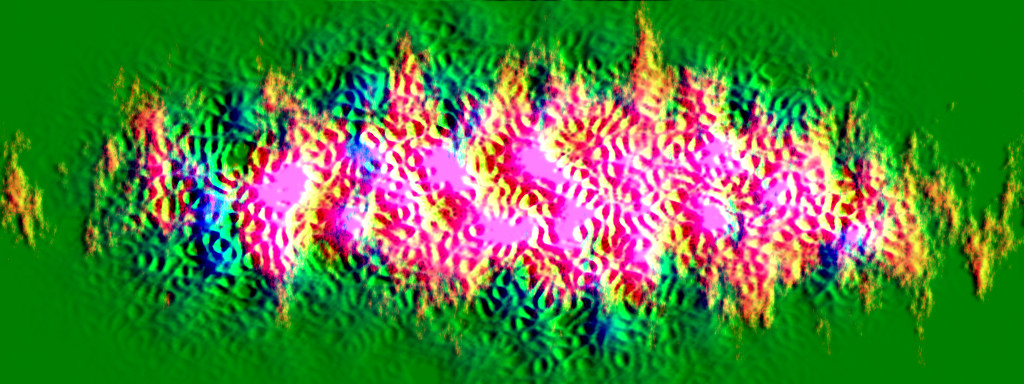
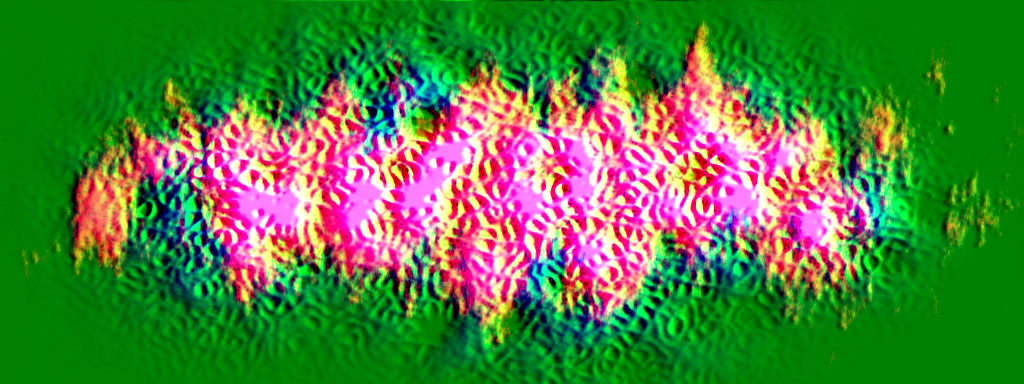
The cloud in fields at three heights, lava as vents, shade of the storm, land reads as a continent

diff --git a/src/places/reveal/land/index.ts b/src/places/reveal/land/index.ts
@@ -3,7 +3,7 @@
 // The light is the rig's: one sun, the blue of the air, the shade of the cloud (shared/weather.ts) and the edge of the planet.
 import * as THREE from 'three';
 import { FPS } from '../../../config';
-import { AT, KM, RING_FADE, RISE_FIRST, X, Z, handoff, rise } from '../shared/anchors';
+import { AT, KM, RING_FADE, RISE_FIRST, SUN, X, Z, handoff, rise } from '../shared/anchors';
 import type { Context, Piece } from '../shared/context';
 import { NOISE_GLSL, RIG_GLSL, RIG_VERTEX } from '../shared/glsl';
 import { WEATHER_GLSL } from '../shared/weather';
@@ -33,9 +33,14 @@ uniform vec2 uLava;
 uniform vec2 uSalt;
 uniform vec2 uGlint;
 uniform float uPlanetKm;
+uniform vec4 uStorm;
+uniform vec3 uCyclone;
+uniform vec2 uShadeOff;
 varying vec3 vWorld;
 
 const vec3 DEEP = vec3(0.006, 0.017, 0.04);
+// The lesser vents: x and z from the Heart, km, and their size beside it.
+const vec3 VENTS[6] = vec3[6](vec3(-42.0, -98.0, 0.5), vec3(76.0, -33.0, 0.55), vec3(170.0, -66.0, 0.45), vec3(124.0, 24.0, 0.4), vec3(-52.0, 50.0, 0.45), vec3(43.0, 79.0, 0.4));
 
 float inside(vec2 uv) {
   vec2 m = min(uv, 1.0 - uv);
@@ -72,19 +77,40 @@ void main() {
   vec3 n = normalize(vec3(slope.x, sqrt(max(1.0 - dot(slope, slope), 0.04)), slope.y));
 
   float shade = cloudShade(xz);
+  // The storm on the spine and the cyclone stand high: their shade falls on the sea beside them, away from the sun.
+  vec2 underStorm = (xz - uStorm.xy - uShadeOff * 1.0) / uStorm.zw;
+  shade *= 1.0 - 0.72 * (1.0 - smoothstep(0.55, 1.05, length(underStorm)));
+  vec2 underCyclone = (xz - uCyclone.xy - uShadeOff * 0.8) / uCyclone.z;
+  shade *= 1.0 - 0.45 * (1.0 - smoothstep(0.1, 0.75, length(underCyclone)));
   float mu = limbCos(xz);
 
   // ---- the land ----
+  // Seen from far, the lowlands are dark with growth and the ranges pale with bare rock.
+  ground *= mix(1.0, mix(0.75, 1.15, smoothstep(0.02, 0.4, height)), land * smoothstep(40.0, 400.0, uViewKm));
   vec3 earth = rigShade(vWorld, n, view, ground, 0.92, shade);
+  // The light the sunlit slopes throw back into the shaded ones: without it every shadow is the blue of the sky.
+  earth += ground * uSunColour * 0.03 * (0.4 + 0.6 * shade);
 
-  // The lava of the Heart: the chest is a black crust, and the heat shows along its cracks. It swells with the beat.
-  vec2 fromLava = (xz - uLava) / 86.0;
-  float field = exp(-dot(fromLava * vec2(0.8, 1.25), fromLava * vec2(0.8, 1.25)));
-  float vein = cracks(xz / 9.0) * smoothstep(0.25, 0.7, field + 0.25 * (vnoise(xz / 30.0) - 0.5));
-  float core = exp(-dot(fromLava, fromLava) * 36.0);
-  float heat = (vein * (0.5 + 0.5 * field) + core) * (0.75 + 0.9 * uBeat) * land * (1.0 - smoothstep(0.12, 0.3, height));
-  vec3 glow = blackbody(1050.0 + 520.0 * clamp(heat, 0.0, 1.3)) * 0.085 * smoothstep(0.05, 0.5, heat);
-  glow += vec3(1.0, 0.24, 0.05) * 0.05 * field * uBeat * land;
+  // The lava of the Heart: vents in the black crust of the chest. The great one is the Heart, and it swells with the beat; the heat shows
+  // along the cracks round it. Each is a few kilometres of molten rock: from orbit a point of orange light with a glow in the haze over it.
+  vec2 fromLava = xz - uLava;
+  float swell = 0.8 + 0.9 * uBeat;
+  float d0 = dot(fromLava, fromLava);
+  float heat = exp(-d0 / 110.0) * 1.3 * swell;
+  float halo = exp(-d0 / 1600.0) * (0.6 + 1.4 * uBeat);
+  for (int i = 0; i < 6; i++) {
+    vec3 vent = VENTS[i];
+    vec2 q = fromLava - vent.xy;
+    float dd = dot(q, q);
+    // The lesser vents answer the beat a little late, each in its turn.
+    float answer = 0.75 + 0.5 * uBeat * (0.5 + 0.5 * sin(float(i) * 2.4));
+    heat += exp(-dd / (60.0 * vent.z)) * 1.6 * vent.z * answer;
+    halo += exp(-dd / (500.0 * vent.z)) * 0.3 * vent.z * answer;
+  }
+  float vein = cracks(xz / 7.0) * exp(-d0 / 2600.0) * (0.25 + 0.6 * uBeat);
+  heat = (heat + vein) * land * (1.0 - smoothstep(0.14, 0.3, height));
+  vec3 glow = blackbody(1080.0 + 380.0 * clamp(heat, 0.0, 1.4)) * 0.11 * smoothstep(0.03, 0.6, heat);
+  glow += vec3(1.0, 0.3, 0.06) * 0.2 * halo * land;
 
   // ---- the water ----
   // What comes back from under the surface, lit by the sun and the sky.
@@ -99,7 +125,7 @@ void main() {
   float t2 = lean * lean / (rough * rough);
   float lobe = exp(-t2) / (3.14159 * rough * rough);
   float fresnel = 0.02 + 0.98 * pow(1.0 - mu * 0.9, 5.0);
-  water += uSkyColour * 0.32 * fresnel;
+  water += uSkyColour * 0.22 * fresnel;
   water += uSunColour * lobe * 0.0032 * shade * (0.6 + 0.4 * depth);
   // Surf: a broken white line where the swell meets the coast.
   float surf = smoothstep(0.405, 0.47, shape.b) * (1.0 - land) * smoothstep(0.35, 0.75, ruffle + 0.4 * vnoise(xz * 1.7));
@@ -109,8 +135,11 @@ void main() {
 
   // ---- the air between the surface and the eye: more of it toward the edge of the planet ----
   float path = 1.0 / max(mu, 0.12);
-  float air = 1.0 - exp(-0.022 * path * (1.0 - 0.45 * height * land));
+  float air = 1.0 - exp(-0.015 * path * (1.0 - 0.45 * height * land));
   colour = mix(colour, uAirColour * (0.55 + 0.45 * shade), air);
+  // Haze lies in the valleys and over the plains, and thins up the ranges.
+  float low = land * (1.0 - smoothstep(0.0, 0.3, height)) * (0.6 + 0.8 * vnoise(xz / 70.0));
+  colour = mix(colour, (uAirColour * 1.2 + vec3(0.03)) * (0.55 + 0.45 * shade), 0.012 * low * path);
   colour += glow * (1.0 - 0.5 * air);
 
   // ---- the handoff: on its first frame the rise draws what the Eye last drew, deep water and rings ----
@@ -170,6 +199,10 @@ export function create(ctx: Context): Piece {
     // Where on the sea the sun's own image lies, and the radius of the planet, km.
     uGlint: { value: new THREE.Vector2(X(6350), Z(1150)) },
     uPlanetKm: { value: 10183 * KM },
+    // The storm: its middle and its half sizes, km. The cyclone: its middle and its radius. And how far a shade falls for a cloud 7 km up.
+    uStorm: { value: new THREE.Vector4(X(AT.storm.x), Z(AT.storm.y), 215 * KM, 62 * KM) },
+    uCyclone: { value: new THREE.Vector3(X(AT.cyclone.x), Z(AT.cyclone.y), 880 * KM) },
+    uShadeOff: { value: new THREE.Vector2((-SUN[0] / SUN[1]) * 7, (-SUN[2] / SUN[1]) * 7) },
   };
   const material = new THREE.ShaderMaterial({ uniforms, vertexShader: RIG_VERTEX, fragmentShader: FRAGMENT });
   const sheet = new THREE.Mesh(new THREE.PlaneGeometry(90000, 90000).rotateX(-Math.PI / 2), material);

diff --git a/src/places/reveal/shared/weather.ts b/src/places/reveal/shared/weather.ts
@@ -29,11 +29,15 @@ vec3 lowCloud(vec2 xz) {
   vec3 other = texture2D(uCloudTile, turned / 109.0 + vec2(0.71, 0.18)).rgb;
   float close = 1.0 - smoothstep(60.0, 420.0, uViewKm);
   vec3 near = texture2D(uCloudTile, (xz - drift * 1.2) / 41.0 + vec2(0.13, 0.77)).rgb;
-  float field = 0.3 * wide.r + 0.4 * mid.r + 0.3 * other.r + close * 0.14 * (near.r - 0.5);
-  float share = 0.72 * cover.r + 0.5 * cover.b;
-  float edge = mix(0.07, 0.045, close);
-  float least = 0.5 + (0.5 - share) * 0.55 + 0.3 * (1.0 - smoothstep(0.0, 0.08, share));
-  float thick = smoothstep(least, least + edge, field);
+  float share = 0.74 * smoothstep(0.2, 0.62, cover.r) + 0.4 * cover.b;
+  // Where the fields of cloud are, and in them the cells: the fuller the field, the more of its cells have grown.
+  float fieldOf = smoothstep(0.9 - 1.25 * share, 1.45 - 1.25 * share, 0.8 * wide.r + 0.2 * mid.r) * smoothstep(0.0, 0.06, share);
+  float cells = 0.42 * mid.r + 0.38 * other.r + 0.2 * wide.r + close * 0.16 * (near.r - 0.5);
+  float least = mix(0.82, 0.5, fieldOf);
+  float thick = smoothstep(least, least + mix(0.1, 0.06, close), cells);
+  // Past the size a pixel can show, the cells are seen as their share of the field.
+  float coarse = smoothstep(2.0, 8.0, fwidth(xz.x) + fwidth(xz.y));
+  thick = mix(thick, 0.5 * fieldOf * fieldOf, coarse);
   float facing = 0.5 + (wide.g - 0.5) * 0.3 + (mid.g - 0.5) * 0.8 + (other.g - 0.5) * 0.6 + close * (near.g - 0.5) * 0.6;
   return vec3(thick, facing, mid.r);
 }
@@ -48,10 +52,22 @@ float highCloud(vec2 xz) {
   return smoothstep(1.0 - cover.g, 1.0 - cover.g + 0.35, field);
 }
 
+// The middle cloud: wide thin sheets, rippled, between the two.
+float midCloud(vec2 xz) {
+  vec2 drift = uTime * vec2(1.9, -0.6);
+  vec3 cover = coverAt(xz);
+  float sheet = texture2D(uCloudTile, (xz - drift) / 3300.0 + vec2(0.55, 0.12)).r;
+  float ripple = texture2D(uCloudTile, (xz - drift) / 290.0 + vec2(0.4, 0.9)).r;
+  float fine = texture2D(uCloudTile, (xz - drift * 1.1) / 67.0).r;
+  float streaks = texture2D(uCloudTile, (xz - drift) / 900.0 + vec2(0.1, 0.3)).b;
+  return smoothstep(0.62, 1.15, sheet) * smoothstep(0.12, 0.3, cover.g) * smoothstep(0.2, 0.9, 0.5 * ripple + 0.2 * fine + 0.5 * streaks);
+}
+
 // The share of the sun that reaches a point of the ground under the cloud.
 float cloudShade(vec2 xz) {
   vec2 toSun = uSunDir.xz / max(uSunDir.y, 0.2);
   float low = lowCloud(xz + toSun * ${LOW_KM.toFixed(1)}).x;
   float high = highCloud(xz + toSun * ${HIGH_KM.toFixed(1)});
-  return (1.0 - 0.78 * low) * (1.0 - 0.3 * high);
+  float mid = midCloud(xz + toSun * 5.5);
+  return (1.0 - 0.78 * low) * (1.0 - 0.3 * high) * (1.0 - 0.4 * mid);
 }`;

diff --git a/src/places/reveal/sky/index.ts b/src/places/reveal/sky/index.ts
@@ -24,8 +24,8 @@ const CLOUD_LIGHT_GLSL = /* glsl */ `
 vec3 cloudLight(vec2 xz, float facing, float thick, float high) {
   float mu = limbCos(xz);
   float sun = uSunDir.y * (0.42 + 1.16 * clamp(facing, 0.0, 1.0)) * (0.55 + 0.45 * thick);
-  vec3 c = 1.15 * (uSunColour * sun + uSkyColour * 0.9) / 3.14159;
-  float air = 1.0 - exp(-0.022 * (1.0 - 0.6 * high) / max(mu, 0.12));
+  vec3 c = 1.7 * (uSunColour * sun + uSkyColour * 0.9) / 3.14159;
+  float air = 1.0 - exp(-0.015 * (1.0 - 0.6 * high) / max(mu, 0.12));
   return mix(c, uAirColour, air);
 }`;
 
@@ -44,12 +44,20 @@ void main() {
   // The low cloud lies in the shade of the high cloud, and of its own neighbours toward the sun.
   vec2 toSun = uSunDir.xz / max(uSunDir.y, 0.2);
   float over = highCloud(up + toSun * ${(HIGH_KM - LOW_KM).toFixed(1)});
-  vec3 lowColour = cloudLight(xz, low.y, low.x, 0.0) * (1.0 - 0.25 * over);
+  vec2 between = xz + (cameraPosition.xz - xz) * 2.9 / max(cameraPosition.y - ${LOW_KM.toFixed(1)}, 1.0);
+  float mid = midCloud(between);
+  float overMid = midCloud(between + toSun * 2.9);
+  // A cloud is lit on the side toward the sun and dark on the other: its own neighbour toward the sun shades it.
+  float sunward = lowCloud(xz + normalize(uSunDir.xz) * (0.9 + 0.012 * uViewKm)).x;
+  float self = clamp(0.5 + 1.4 * (low.x - sunward), 0.0, 1.0);
+  vec3 lowColour = cloudLight(xz, 0.6 * low.y + 0.4 * self, low.x, 0.0) * (1.0 - 0.25 * over) * (1.0 - 0.35 * overMid);
+  vec3 midColour = cloudLight(between, 0.45 + 0.25 * mid, 0.7, 0.5) * (1.0 - 0.2 * over) * 0.92;
   vec3 highColour = cloudLight(up, 0.62, 0.6, 1.0);
   float a = low.x * 0.96;
+  float m = mid * 0.24;
   float b = high * 0.28;
-  vec3 colour = lowColour * a * (1.0 - b) + highColour * b;
-  float alpha = 1.0 - (1.0 - a) * (1.0 - b);
+  vec3 colour = lowColour * a * (1.0 - m) * (1.0 - b) + midColour * m * (1.0 - b) + highColour * b;
+  float alpha = 1.0 - (1.0 - a) * (1.0 - m) * (1.0 - b);
   gl_FragColor = vec4(colour * (1.0 - uSolo), alpha * (1.0 - uSolo));
 }`;
 

diff --git a/src/places/reveal/shared/glsl.ts b/src/places/reveal/shared/glsl.ts
@@ -48,7 +48,7 @@ float limbCos(vec2 xz) {
 
 // Irradiance of the blue sky on a face: the air's scattered light, from above.
 vec3 skyIrradiance(vec3 n) {
-  return uSkyColour * (0.6 + 0.4 * n.y);
+  return uSkyColour * (0.45 + 0.4 * n.y);
 }
 
 // From orbit nothing stands over the ground but cloud, and the surface that draws the cloud's shade passes it as occlusion.

diff --git a/assets-src/reveal/land/make_land.py b/assets-src/reveal/land/make_land.py
@@ -149,13 +149,15 @@ def make(name):
     lake = lake_d < 1.0
     keep = np.maximum.reduce([
         capsule(X, Y + 60 * wob, 2060, 1548, 2960, 1562, 46),
-        1.0 * blob(X, Y, 4950, 1530, 820, 140, soft=0.5, warp=2 * wob),
+        1.3 * blob(X, Y, 4980, 1480, 800, 200, soft=0.5, warp=2.5 * wob),
+        1.1 * blob(X, Y, 4560, 2080, 250, 210, soft=0.5, warp=2.5 * wob),
+        0.9 * blob(X, Y, 1850, 2200, 330, 260, soft=0.5, warp=2.5 * wob),
         0.9 * blob(X, Y, 3230, 1560, 330, 250, warp=wob),
         holes,
     ])
     chest = blob(X, Y, 2440, 1290, 400, 215, warp=wob)
     throat = blob(X, Y, THROAT[0] + 20, THROAT[1] + 10, 175, 140, warp=wob)
-    pan = blob(X, Y, SALT[0], SALT[1], 185, 215, soft=0.25, warp=wob)
+    pan = blob(X, Y, SALT[0], SALT[1], 185, 215, soft=0.25, warp=2.2 * wob + 0.6 * n_mid)
     n_huge = fbm(X, Y, 900, 10, max(texel, 100))
     ribs_low = blob(X, Y, 2520, 1860, 430, 250, soft=0.5)
     plains = fbm(X, Y, 1500, 14, max(texel, 100))
@@ -173,7 +175,7 @@ def make(name):
     inland = smooth(0.02, 0.45, score)
     ranges = np.clip(fbm(X, Y, 340, 16, max(texel, 6), ridged=True) + 0.5 * fbm(X, Y, 90, 17, max(texel, 3), ridged=True) + 0.12, 0, 1)
     guide = 0.02 + 0.07 * lowness + 0.6 * inland * ranges * ranges + bone * (0.2 + 0.42 * crest + 0.5 * grey)
-    guide = guide * (1 - 0.9 * pan) + 0.03 * pan
+    guide = guide * (1 - 0.9 * pan) + pan * (0.03 + 0.05 * (fbm(X, Y, 70, 18, max(texel, 2)) + 0.5))
     guide = guide * (1 - 0.75 * chest * (1 - bone)) * (1 - 0.6 * throat * (1 - bone))
     guide = np.where(land, guide, 0).astype(np.float32)
     fixed = ~land
@@ -232,6 +234,9 @@ def make(name):
     depth = 1 - np.exp(-to_land / np.maximum(shelf, 3))
     bars = smooth(0.1, 0.35, fbm(X, Y, 26, 41, texel, ridged=True)) * np.exp(-to_land / 9)
     depth = np.clip(depth - 0.25 * bars, 0, 1)
+    # the sockets and the hollows of the skull are deep: dark water inside pale rock
+    depth = np.maximum(depth, smooth(0.3, 0.9, holes) * (0.75 + 0.5 * n_mid))
+    depth = np.clip(depth, 0, 1)
     # the drowned backbone: a pale line along the floor of the strait
     depth = depth * (1 - 0.55 * capsule(X, Y + 10 * wob, 2080, 1552, 2990, 1560, 5, soft=0.9))
 
@@ -240,20 +245,21 @@ def make(name):
     biome = fbm(X, Y, 800, 54, max(texel, 30))
     low = mixc(col(0.1, 0.075, 0.052), col(0.04, 0.058, 0.036), smooth(-0.12, 0.12, biome + 0.4 * tone + 0.3 * tone2))
     low = mixc(low, col(0.19, 0.115, 0.07), smooth(0.02, 0.2, tone2 - 0.5 * tone - 0.6 * biome))
-    low = mixc(low, col(0.26, 0.2, 0.14), smooth(0.1, 0.3, -biome + 0.3 * tone))
+    low = mixc(low, col(0.2, 0.15, 0.1), smooth(0.14, 0.34, -biome + 0.3 * tone))
     low = mixc(low, col(0.035, 0.055, 0.04), 0.7 * moist)
     foot = col(0.24, 0.185, 0.14)
     pale = mixc(col(0.5, 0.445, 0.375), col(0.42, 0.40, 0.385), smooth(-0.2, 0.25, tone))
     white = col(0.82, 0.8, 0.77)
     e = h / 1.3
     c = mixc(low, foot, smooth(0.05, 0.16, e))
-    c = mixc(c, pale, smooth(0.13, 0.33, e))
+    c = mixc(c, pale, smooth(0.16, 0.42, e))
     c = mixc(c, white, smooth(0.62, 0.9, e + 0.12 * tone2) * smooth(0.9, 0.3, slope))
     c = c * (0.62 + 0.62 * hollow)[..., None] * (1 + 0.22 * tone2 + 0.16 * grain)[..., None]
     c = mixc(c, c * col(0.62, 0.6, 0.62), smooth(0.35, 0.8, slope))
     crust = mixc(col(0.02, 0.019, 0.02), col(0.045, 0.04, 0.038), smooth(-0.1, 0.25, tone2 + grain))
-    flows = smooth(-0.08, 0.06, fbm(X, Y, 170, 55, max(texel, 2)) + 0.6 * (chest - 0.6))
-    c = mixc(c, crust * (0.7 + 0.6 * hollow)[..., None], np.clip(chest * 1.6, 0, 1) * flows * smooth(0.2, 0.1, e))
+    flows = smooth(0.4, 0.62, chest + 1.5 * fbm(X, Y, 170, 55, max(texel, 2)) + 0.5 * tone2)
+    crust = crust * (1 + 1.5 * smooth(0.0, 0.2, fbm(X, Y, 60, 56, texel)))[..., None]
+    c = mixc(c, crust * (0.7 + 0.6 * hollow)[..., None], 0.93 * flows * smooth(0.24, 0.1, e))
     red = mixc(col(0.115, 0.045, 0.034), col(0.2, 0.075, 0.045), smooth(-0.1, 0.3, tone2))
     c = mixc(c, red * (0.7 + 0.6 * hollow)[..., None], np.clip(throat * 1.3, 0, 1) * smooth(0.22, 0.1, e))
     c = mixc(c, col(0.006, 0.008, 0.011), smooth(0.25, 0.7, pits))
@@ -262,8 +268,8 @@ def make(name):
     salt = mixc(col(0.72, 0.7, 0.68), col(0.8, 0.74, 0.72), smooth(0, 0.25, tone2)) * (0.9 + 0.5 * cells)[..., None]
     in_pan = np.clip(pan * 1.25, 0, 1) * smooth(0.16, 0.08, e)
     c = mixc(c, salt, in_pan)
-    brine = np.clip(cv2.GaussianBlur((smooth(1.9, 3.1, np.log10(np.maximum(area_km, 1))) * land).astype(np.float32), (0, 0), max(1.2, 1.6 / texel)) * 2.2, 0, 1)
-    pools = smooth(0.12, 0.2, fbm(X, Y, 48, 62, texel)) * smooth(0.3, 0.8, pan)
+    brine = np.clip(cv2.GaussianBlur((smooth(1.5, 2.7, np.log10(np.maximum(area_km, 1))) * land).astype(np.float32), (0, 0), max(1.2, 2.4 / texel)) * 2.6, 0, 1)
+    pools = smooth(0.16, 0.22, fbm(X, Y, 48, 62, texel)) * smooth(0.3, 0.8, pan)
     c = mixc(c, mixc(col(0.36, 0.022, 0.03), col(0.2, 0.012, 0.02), smooth(0.4, 1, brine)), np.clip(np.maximum(brine, pools) * in_pan * 1.2, 0, 1))
     c = mixc(c, col(0.03, 0.075, 0.09), river * (1 - in_pan))
     c = mixc(c, col(0.42, 0.37, 0.29), 0.6 * np.exp(-to_sea / max(1.2, 1.5 * texel)) * smooth(0.6, 0.1, slope) * (1 - in_pan))

diff --git a/assets-src/reveal/sky/make_sky.py b/assets-src/reveal/sky/make_sky.py
@@ -93,7 +93,8 @@ def cyclone():
     y, x = np.mgrid[0:n, 0:n].astype(np.float32)
     u = (x - n / 2) / (n / 2); v = (y - n / 2) / (n / 2)
     r = np.sqrt(u * u + v * v) + 1e-4; a = np.arctan2(v, u)
-    turn = a + 3.4 * np.log(r + 0.03)
+    bent = spectral(n, lambda k: np.exp(-((k - 4) / 3) ** 2))
+    turn = a + 3.4 * np.log(r + 0.03) + 0.16 * bent
     def polar(seed_scale, bands, radial):
         # noise in the turning frame: repeats round the circle
         px = (turn / (2 * np.pi) * bands) % 1.0; py = (np.log(r + 0.03) * radial) % 1.0
@@ -101,13 +102,18 @@ def cyclone():
         from scipy import ndimage
         return ndimage.map_coordinates(base.astype(np.float32), [py * 512, px * 512], order=1, mode='grid-wrap')
     arms = polar(1.8, 2.0, 0.6); fine = polar(1.2, 5.0, 2.2)
+    # the fibres of the bands: long along the turn, fine across it
+    fibre = polar(1.0, 9.0, 0.45); hair = polar(0.8, 26.0, 0.9)
     fleck = spectral(n, lambda k: np.exp(-((k - 90) / 50) ** 2))
-    d = 0.55 + 0.42 * arms + 0.22 * fine + 0.1 * fleck
+    torn = spectral(n, lambda k: np.exp(-((k - 11) / 7) ** 2))
+    cells = spectral(n, lambda k: np.exp(-((k - 40) / 20) ** 2))
+    out = np.clip(r * 2.0, 0, 1)
+    d = 0.5 + 0.36 * arms + 0.16 * fine + 0.26 * fibre + 0.14 * hair + 0.18 * torn * out + 0.1 * cells * out + 0.06 * fleck
     core = np.exp(-(r / 0.2) ** 2)
-    d = d + 0.9 * core
-    d = d * np.clip((1.02 - r) / 0.5, 0, 1) ** 0.8
-    eye = np.clip((r - 0.016) / 0.02, 0, 1)
-    dens = np.clip((d - 0.45) * 2.6, 0, 1) * eye
+    d = d + 0.8 * core
+    d = d * np.clip((1.0 + 0.12 * torn - r) / 0.6, 0, 1) ** 0.9
+    eye = np.clip((r - 0.01) / 0.045, 0, 1) ** 1.5
+    dens = np.clip((d - 0.38) * 1.25, 0, 1) ** 1.3 * eye
     tall = np.clip(0.35 * dens + 0.65 * core + 0.2 * fine * dens, 0, 1)
     lit = facing(cv2.GaussianBlur(tall + 0.5 * dens, (0, 0), 1.5), 4.0, 3.0)
     save('cyclone.jpg', np.stack([dens, lit, tall], -1), 90)
